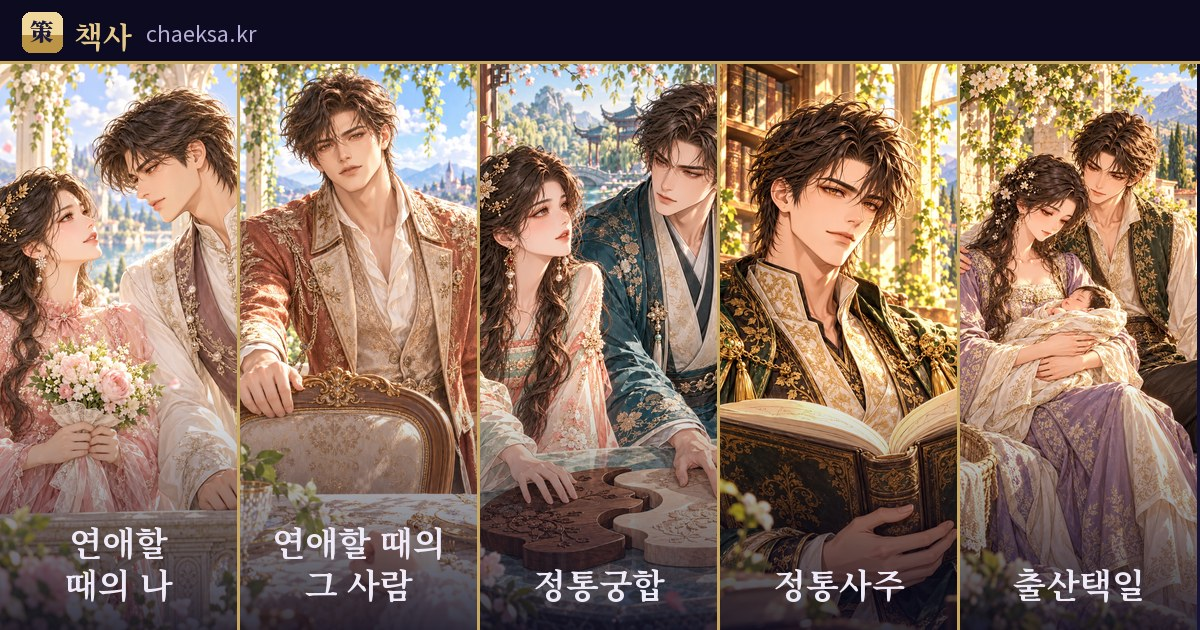
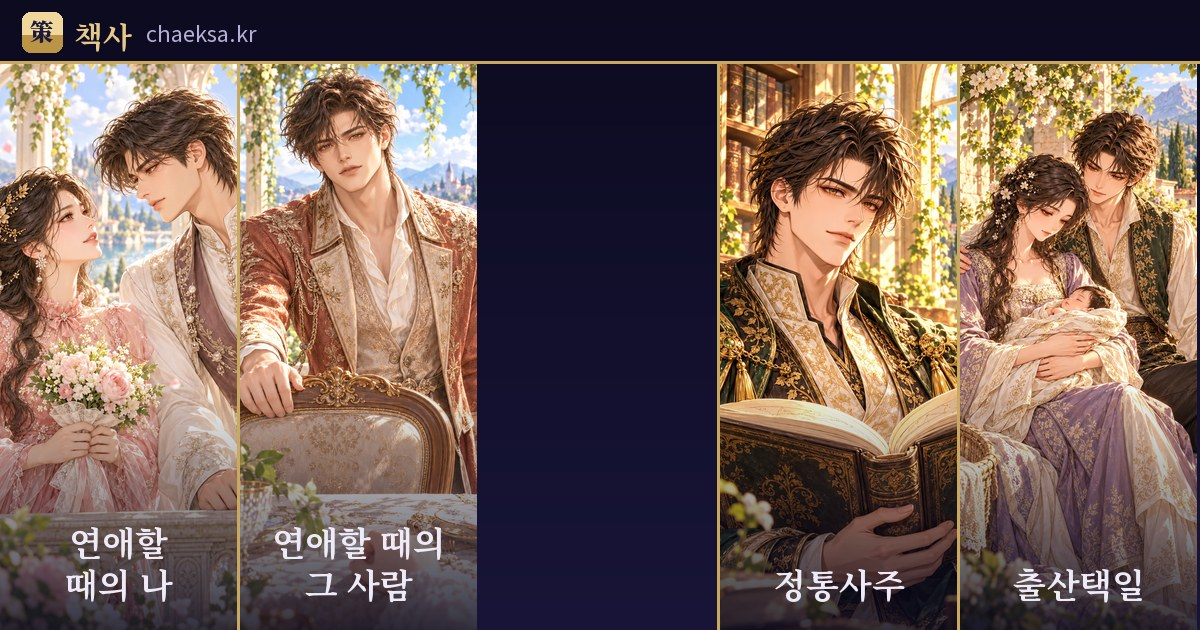
v1597 COPY-0033 합침(PR #42) · 정통 사주 궁합 홈 「궁합」 칸 맨 앞 · 장부 ghpyo · 검색 엶
정한 것: 결정함 114 — 궁합총론 자리를 정통 사주 궁합으로(궁합총론 탭은 ?go=chongnon 으로 남김) · 홈한줄은 Codex 위표시 문구

Changed region(s): [[0.37, 0.0905, 0.6167, 1.0], [0.5858, 0.9952, 0.6167, 1.0]]

diff --git a/app/tests_yaksok.html b/app/tests_yaksok.html
@@ -4,10 +4,10 @@
 <body><div id="out">시험하는 중이에요…</div><div id="stage" hidden></div>
 <script src="config.js?v=71396c29ad"></script>
 <script src="bunya.js?v=3445e8960e"></script>
-<script src="yaksok.js?v=8c978fd37f"></script>
+<script src="yaksok.js?v=72e3a2b6e3"></script>
 <script src="love.js?v=a7aaea452b"></script>
 <script src="pair.js?v=53d0140cab"></script>
-<script src="home-cats.js?v=aeddff5844"></script>
+<script src="home-cats.js?v=2cdcaf31b1"></script>
 <script src="people.js?v=608bb7b89c"></script>
 <script>
 // 상품 약속 장부 시험(10-02 개편 2묶음 「상품 약속 장부 한 줄씩 만들고, 모든 화면이 거기서 읽게 하기」).
@@ -42,14 +42,14 @@
   const 아는조건 = ['장한줄'];
   // 손으로 쓴 곳 — 장부를 읽지 못하는 법 문서 · 정적 글과, 장부를 읽게 바꾼 화면 파일(남은 손글씨가 없는지)
   const 손글파일 = ['pay.html', 'terms.html', 'privacy.html', 'index.html', 'manifest.json', 'llms.txt', 'taekil.html', 'taekil-apply.html', 'taekil-sample.html', 'pay-done.html', 'pay-fail.html', 'love.html', 'pair.html', 'ssom.html', 'gunghap-chongnon.html', 'jeongtong.html',
-    'love.js?v=a7aaea452b', 'pair.js?v=53d0140cab', 'home-cats.js?v=aeddff5844', 'app.js?v=c5498b0ca2', 'pay.js?v=536b36d2a9', 'gunghap-gwanjeom.js?v=e449964641', 'bunya.js?v=3445e8960e', 'about.html',
+    'love.js?v=a7aaea452b', 'pair.js?v=53d0140cab', 'home-cats.js?v=2cdcaf31b1', 'app.js?v=c5498b0ca2', 'pay.js?v=536b36d2a9', 'gunghap-gwanjeom.js?v=e449964641', 'bunya.js?v=3445e8960e', 'about.html',
     // 10-02 「켜는 날」 — 바깥 신청 폼 · 「사람이 직접」 · 「작업 전 전액 환불」 같은 걷은 약속이 출산택일 쪽에 다시 들어오지 않게(tools_check.py 7) 은 월별 · 궁통보감 쪽까지 taekil-*.html 전부를 본다)
     'taekil-price.html', 'taekil-sim.html', 'taekil-report.html', 'taekil-admin.html', 'taekil-why-different.html', 'taekil-cesarean-date.html', 'taekil-how-to-choose.html',
     'taekil-verify.html', 'taekil-fate-vs-timing.html', 'taekil-doctor-schedule.html', 'taekil-solar-time.html', 'taekil-lunar-december.html',
     'taekilsim.js?v=fbda3c54dc', 'taekil-admin.js?v=edcde7cc1e', 'taekil-report.js?v=59bef60b95'];
   // about.html(10-02 개편 3묶음 책사 소개) — 상품 말은 장부에서 읽는다. 손으로 쓴 숫자가 끼면 여기서 잡는다(tools_check.py 7)과 같은 목록)
-  const 시간파일 = ['pay.html', 'terms.html', 'love.js?v=a7aaea452b', 'pair.js?v=53d0140cab', 'index.html', 'pay-done.html', 'pay-fail.html', 'home-cats.js?v=aeddff5844', 'about.html'];
-  const 질문파일 = ['pay.html', 'terms.html', 'privacy.html', 'love.js?v=a7aaea452b', 'pair.js?v=53d0140cab', 'index.html', 'llms.txt', 'gunghap-gwanjeom.js?v=e449964641', 'home-cats.js?v=aeddff5844', 'about.html'];
+  const 시간파일 = ['pay.html', 'terms.html', 'love.js?v=a7aaea452b', 'pair.js?v=53d0140cab', 'index.html', 'pay-done.html', 'pay-fail.html', 'home-cats.js?v=2cdcaf31b1', 'about.html'];
+  const 질문파일 = ['pay.html', 'terms.html', 'privacy.html', 'love.js?v=a7aaea452b', 'pair.js?v=53d0140cab', 'index.html', 'llms.txt', 'gunghap-gwanjeom.js?v=e449964641', 'home-cats.js?v=2cdcaf31b1', 'about.html'];
   const 해파일 = ['pay.html', 'terms.html', 'privacy.html', 'love.js?v=a7aaea452b', 'pair.js?v=53d0140cab', 'about.html'];
   // 10-02 개편 3묶음 — 상품 소개 쪽 다섯(tools_sogae.py 가 장부 · 분야 표에서 만든다. tools_check.py SOGAE_PAGES 와 같은 목록). 시간 · 질문 수 · 보관 해도 장부와 같아야 한다.
   const 소개쪽 = { love: 'love.html', pair: 'pair.html', chongnon: 'gunghap-chongnon.html', ssom: 'ssom.html', jeongtong: 'jeongtong.html' };
@@ -60,7 +60,7 @@
     머리('가. 장부 꼴');
     봄('가1 전역 ChaeksaYaksok 이 있다', !!(Y && T && T.콘텐츠), true);
     if (!Y) throw new Error('yaksok.js 가 실리지 않았다');
-    const 소스 = await 받기('yaksok.js?v=8c978fd37f');
+    const 소스 = await 받기('yaksok.js?v=72e3a2b6e3');
     const 시작 = '/*장부 시작*/', 끝 = '/*장부 끝*/';
     봄('가2 장부 시작 · 장부 끝 표시가 한 번씩', [String(소스).split(시작).length - 1, String(소스).split(끝).length - 1], [1, 1]);
     let 파싱 = null; try { 파싱 = JSON.parse(소스.slice(소스.indexOf(시작) + 시작.length, 소스.indexOf(끝))); } catch (e) { 파싱 = null; }

diff --git a/app/home-cats.js b/app/home-cats.js
@@ -16,7 +16,8 @@
     // 창 = 아래 줄 「궁합」 고르기 창(app.js 고르기창)에서 이름 아래 한 줄(10-10 작가 「궁합창」 — 창의 다른 두 줄처럼 무엇을 보는지 적은 꼴). 홈 칸은 장부 홈한줄(물음 꼴) 그대로.
     //   장부(yaksok.js)에 두지 않은 까닭 — pay.html · pay-done · pay-fail 이 장부를 싣는다. 결제 심사 동안 그 쪽 ?v= 가 바뀌지 않게 여기 둔다(심사 뒤 장부 칸으로 옮긴다).
     match: [{ 키: 'gyeolhon', 주소: 'gyeolhon.html', 창: '그 사람과 함께 살아도 되는지, 결혼식을 피해야 할 해까지', 그림: 'art/content-tarot-v2/gyeolhon-cover.webp', 작은: 'art/content-tarot-v2/gyeolhon-cover-s.webp', 크기: [1024, 1536], 그림위치: '50% 28%' },
-      { 키: 'chongnon', 탭: 'chongnon', 그림: 'art/content-tarot-v2/gunghap-cover.webp', 작은: 'art/content-tarot-v2/gunghap-cover-s.webp', 크기: [1024, 1536], 그림위치: '50% 28%' },
+      // 11-03 사장님 궁합 네 줄 「정통 사주 궁합」(필터식 · gunghap-pyo.html) — 궁합총론 자리를 바꾼다(결정함 114). 궁합총론 탭은 ?go=chongnon 으로 남는다
+      { 키: 'ghpyo', 주소: 'gunghap-pyo.html', 그림: 'art/content-tarot-v2/gunghap-cover.webp', 작은: 'art/content-tarot-v2/gunghap-cover-s.webp', 크기: [1024, 1536], 그림위치: '50% 28%' },
       { 키: 'ssom', 탭: 'ssom', 그림: 'art/content-tarot-v2/ssom-cover.webp', 작은: 'art/content-tarot-v2/ssom-cover-s.webp', 크기: [1024, 1536], 그림위치: '50% 28%' }],
     me: [// 10-12 「내 사람들」(saram.html, 작업판 36) — 사장님 「내 사람들 ㄱㄱ」. 그림은 비견 칸(나란히 선 사람들)
       { 키: 'saram', 주소: 'saram.html', 그림: 'art/content-tarot-v2/saram-cover.webp', 작은: 'art/content-tarot-v2/saram-cover-s.webp', 크기: [1024, 1536], 그림위치: '50% 28%' },
@@ -75,7 +76,7 @@
   // 11-01 구글 「책사」 — 앱 탭으로 여는 칸도 href 는 그 상품의 소개 쪽(구글은 href 가 있는 <a> 만 따라간다. ./?go= 는 홈 사본이라 소개 쪽 다섯이 어느 쪽에서도 이어지지 않았다).
   // 보통 클릭은 그대로 길달기()가 data-tab 으로 앱 탭을 연다 — 바뀌는 것은 새 탭으로 열 때와 구글이 보는 주소뿐. 소개 쪽은 넣어 둔 사람이 있으면 ./?go= 로 넘긴다. 표 = tools_sogae.py PRODUCTS.
   var 소개쪽 = { love: 'love.html', pair: 'pair.html', chongnon: 'gunghap-chongnon.html', ssom: 'ssom.html', jeongtong: 'jeongtong.html' };
-  var 그림판 = 'v1596';   // tools_bust.py --bump 가 서비스워커 판과 같이 올린다
+  var 그림판 = 'v1597';   // tools_bust.py --bump 가 서비스워커 판과 같이 올린다
   function 그림칸(b, c, i, 차례, g, Y) {
     // 그림은 그림만(10-23 사장님) — 그림 아래에 이름(.n) · 한줄(.s) · 딱지(.t: 무엇이 무료 · 얼마 — 값은 상품표에서 채운다). 분류 딱지는 안 그린다.
     var 이름 = c.표시명 || (Y && Y.이름(c.키)) || b.이름, 한줄 = c.설명 || (Y && Y.홈한줄 ? Y.홈한줄(c.키) : ''), 딱지 = Y ? Y.딱지html(c.키) : '';
@@ -145,7 +146,7 @@
     var 묶음들 = [
       ['나를 알아보기', ['jeongtong', 'myeongban', 'tarot', 'three', 'today', 'why', 'when']],
       ['아기 태어날 날과 시간', ['taekil']],
-      ['연애와 궁합', ['chongnon', 'ssom', 'gyeolhon', 'love', 'pair', 'saram']],
+      ['연애와 궁합', ['ghpyo', 'ssom', 'gyeolhon', 'love', 'pair', 'saram']],
       ['일과 돈', ['ilgyeol']],
       ['읽을거리', ['read']]
     ];

diff --git a/app/gunghap-chongnon.html b/app/gunghap-chongnon.html
@@ -26,7 +26,7 @@ document.documentElement.setAttribute('data-theme','day');
 <link rel="preconnect" href="https://fonts.googleapis.com">
 <link rel="preconnect" href="https://fonts.gstatic.com" crossorigin>
 <link href="https://fonts.googleapis.com/css2?family=Noto+Serif+KR:wght@400;700;900&family=Noto+Sans+KR:wght@400;500;700&family=Gowun+Batang:wght@400;700&display=swap" rel="stylesheet">
-<link rel="stylesheet" href="style.css?v=1596">
+<link rel="stylesheet" href="style.css?v=1597">
 <style>
   .doc{max-width:660px;margin:0 auto;padding:24px 18px 90px}
   .doc h1{font-family:var(--serif);font-size:var(--t6);line-height:1.35;margin:6px 0 8px;color:var(--ink)}
@@ -55,13 +55,12 @@ document.documentElement.setAttribute('data-theme','day');
     .sg-cover{display:block;width:62vw;max-width:260px;margin:0 auto 16px}
   }
 </style>
-<link rel="stylesheet" href="desktop-scenes.css?v=1596">
+<link rel="stylesheet" href="desktop-scenes.css?v=1597">
 </head>
 <body data-desktop-scene="garden" data-desktop-content="chongnon">
 <div class="mini-head" role="banner"><a class="logo" href="./" title="처음 화면으로"><i class="seal">策</i><span>책사</span></a><a class="mh-home" href="./">← 홈</a></div>
 <main class="doc sg" data-sogae="chongnon">
   <div class="sg-hero">
-  <img class="sg-cover" src="art/content-tarot-v2/gunghap-cover.webp" srcset="art/content-tarot-v2/gunghap-cover-s.webp 360w, art/content-tarot-v2/gunghap-cover.webp 1024w" sizes="(min-width:600px) 240px, 62vw" width="1024" height="1536" alt="" decoding="async">
   <div class="sg-head">
     <p class="sg-tag">무료</p>
     <h1>정통궁합</h1>
@@ -103,8 +102,8 @@ document.documentElement.setAttribute('data-theme','day');
   유코아 팔달 · 대표 이승용 · 사업자등록번호 745-68-00160 · 통신판매업 제2026-대구북구-0909호<br>
   대구 북구 매천로 2길19 상가 126동 1층 111호 · 010-9999-1263 · dl4431@naver.com</p>
 </main>
-<script src="config.js?v=1596"></script>
-<script src="track.js?v=1596"></script>
+<script src="config.js?v=1597"></script>
+<script src="track.js?v=1597"></script>
 <script>
 (function(){
   var f='';try{f=new URLSearchParams(location.search).get('from')||'';}catch(e){}

diff --git a/app/love.html b/app/love.html
@@ -26,7 +26,7 @@ document.documentElement.setAttribute('data-theme','day');
 <link rel="preconnect" href="https://fonts.googleapis.com">
 <link rel="preconnect" href="https://fonts.gstatic.com" crossorigin>
 <link href="https://fonts.googleapis.com/css2?family=Noto+Serif+KR:wght@400;700;900&family=Noto+Sans+KR:wght@400;500;700&family=Gowun+Batang:wght@400;700&display=swap" rel="stylesheet">
-<link rel="stylesheet" href="style.css?v=1596">
+<link rel="stylesheet" href="style.css?v=1597">
 <style>
   .doc{max-width:660px;margin:0 auto;padding:24px 18px 90px}
   .doc h1{font-family:var(--serif);font-size:var(--t6);line-height:1.35;margin:6px 0 8px;color:var(--ink)}
@@ -55,7 +55,7 @@ document.documentElement.setAttribute('data-theme','day');
     .sg-cover{display:block;width:62vw;max-width:260px;margin:0 auto 16px}
   }
 </style>
-<link rel="stylesheet" href="desktop-scenes.css?v=1596">
+<link rel="stylesheet" href="desktop-scenes.css?v=1597">
 </head>
 <body data-desktop-scene="garden" data-desktop-content="love">
 <div class="mini-head" role="banner"><a class="logo" href="./" title="처음 화면으로"><i class="seal">策</i><span>책사</span></a><a class="mh-home" href="./">← 홈</a></div>
@@ -118,10 +118,10 @@ document.documentElement.setAttribute('data-theme','day');
   유코아 팔달 · 대표 이승용 · 사업자등록번호 745-68-00160 · 통신판매업 제2026-대구북구-0909호<br>
   대구 북구 매천로 2길19 상가 126동 1층 111호 · 010-9999-1263 · dl4431@naver.com</p>
 </main>
-<script src="config.js?v=1596"></script>
-<script src="track.js?v=1596"></script>
-<script src="yaksok.js?v=1596"></script>
-<script src="pay.js?v=1596"></script>
+<script src="config.js?v=1597"></script>
+<script src="track.js?v=1597"></script>
+<script src="yaksok.js?v=1597"></script>
+<script src="pay.js?v=1597"></script>
 <script>
 (function(){
   var f='';try{f=new URLSearchParams(location.search).get('from')||'';}catch(e){}

diff --git a/app/pair.html b/app/pair.html
@@ -26,7 +26,7 @@ document.documentElement.setAttribute('data-theme','day');
 <link rel="preconnect" href="https://fonts.googleapis.com">
 <link rel="preconnect" href="https://fonts.gstatic.com" crossorigin>
 <link href="https://fonts.googleapis.com/css2?family=Noto+Serif+KR:wght@400;700;900&family=Noto+Sans+KR:wght@400;500;700&family=Gowun+Batang:wght@400;700&display=swap" rel="stylesheet">
-<link rel="stylesheet" href="style.css?v=1596">
+<link rel="stylesheet" href="style.css?v=1597">
 <style>
   .doc{max-width:660px;margin:0 auto;padding:24px 18px 90px}
   .doc h1{font-family:var(--serif);font-size:var(--t6);line-height:1.35;margin:6px 0 8px;color:var(--ink)}
@@ -55,7 +55,7 @@ document.documentElement.setAttribute('data-theme','day');
     .sg-cover{display:block;width:62vw;max-width:260px;margin:0 auto 16px}
   }
 </style>
-<link rel="stylesheet" href="desktop-scenes.css?v=1596">
+<link rel="stylesheet" href="desktop-scenes.css?v=1597">
 </head>
 <body data-desktop-scene="garden" data-desktop-content="pair">
 <div class="mini-head" role="banner"><a class="logo" href="./" title="처음 화면으로"><i class="seal">策</i><span>책사</span></a><a class="mh-home" href="./">← 홈</a></div>
@@ -100,10 +100,10 @@ document.documentElement.setAttribute('data-theme','day');
   유코아 팔달 · 대표 이승용 · 사업자등록번호 745-68-00160 · 통신판매업 제2026-대구북구-0909호<br>
   대구 북구 매천로 2길19 상가 126동 1층 111호 · 010-9999-1263 · dl4431@naver.com</p>
 </main>
-<script src="config.js?v=1596"></script>
-<script src="track.js?v=1596"></script>
-<script src="yaksok.js?v=1596"></script>
-<script src="pay.js?v=1596"></script>
+<script src="config.js?v=1597"></script>
+<script src="track.js?v=1597"></script>
+<script src="yaksok.js?v=1597"></script>
+<script src="pay.js?v=1597"></script>
 <script>
 (function(){
   var f='';try{f=new URLSearchParams(location.search).get('from')||'';}catch(e){}

diff --git a/app/jeongtong.html b/app/jeongtong.html
@@ -26,7 +26,7 @@ document.documentElement.setAttribute('data-theme','day');
 <link rel="preconnect" href="https://fonts.googleapis.com">
 <link rel="preconnect" href="https://fonts.gstatic.com" crossorigin>
 <link href="https://fonts.googleapis.com/css2?family=Noto+Serif+KR:wght@400;700;900&family=Noto+Sans+KR:wght@400;500;700&family=Gowun+Batang:wght@400;700&display=swap" rel="stylesheet">
-<link rel="stylesheet" href="style.css?v=1596">
+<link rel="stylesheet" href="style.css?v=1597">
 <style>
   .doc{max-width:660px;margin:0 auto;padding:24px 18px 90px}
   .doc h1{font-family:var(--serif);font-size:var(--t6);line-height:1.35;margin:6px 0 8px;color:var(--ink)}
@@ -55,7 +55,7 @@ document.documentElement.setAttribute('data-theme','day');
     .sg-cover{display:block;width:62vw;max-width:260px;margin:0 auto 16px}
   }
 </style>
-<link rel="stylesheet" href="desktop-scenes.css?v=1596">
+<link rel="stylesheet" href="desktop-scenes.css?v=1597">
 </head>
 <body data-desktop-scene="library" data-desktop-content="jeongtong">
 <div class="mini-head" role="banner"><a class="logo" href="./" title="처음 화면으로"><i class="seal">策</i><span>책사</span></a><a class="mh-home" href="./">← 홈</a></div>
@@ -97,8 +97,8 @@ document.documentElement.setAttribute('data-theme','day');
   유코아 팔달 · 대표 이승용 · 사업자등록번호 745-68-00160 · 통신판매업 제2026-대구북구-0909호<br>
   대구 북구 매천로 2길19 상가 126동 1층 111호 · 010-9999-1263 · dl4431@naver.com</p>
 </main>
-<script src="config.js?v=1596"></script>
-<script src="track.js?v=1596"></script>
+<script src="config.js?v=1597"></script>
+<script src="track.js?v=1597"></script>
 <script>
 (function(){
   var f='';try{f=new URLSearchParams(location.search).get('from')||'';}catch(e){}

diff --git a/app/ssom.html b/app/ssom.html
@@ -26,7 +26,7 @@ document.documentElement.setAttribute('data-theme','day');
 <link rel="preconnect" href="https://fonts.googleapis.com">
 <link rel="preconnect" href="https://fonts.gstatic.com" crossorigin>
 <link href="https://fonts.googleapis.com/css2?family=Noto+Serif+KR:wght@400;700;900&family=Noto+Sans+KR:wght@400;500;700&family=Gowun+Batang:wght@400;700&display=swap" rel="stylesheet">
-<link rel="stylesheet" href="style.css?v=1596">
+<link rel="stylesheet" href="style.css?v=1597">
 <style>
   .doc{max-width:660px;margin:0 auto;padding:24px 18px 90px}
   .doc h1{font-family:var(--serif);font-size:var(--t6);line-height:1.35;margin:6px 0 8px;color:var(--ink)}
@@ -55,7 +55,7 @@ document.documentElement.setAttribute('data-theme','day');
     .sg-cover{display:block;width:62vw;max-width:260px;margin:0 auto 16px}
   }
 </style>
-<link rel="stylesheet" href="desktop-scenes.css?v=1596">
+<link rel="stylesheet" href="desktop-scenes.css?v=1597">
 </head>
 <body data-desktop-scene="garden" data-desktop-content="ssom">
 <div class="mini-head" role="banner"><a class="logo" href="./" title="처음 화면으로"><i class="seal">策</i><span>책사</span></a><a class="mh-home" href="./">← 홈</a></div>
@@ -98,8 +98,8 @@ document.documentElement.setAttribute('data-theme','day');
   유코아 팔달 · 대표 이승용 · 사업자등록번호 745-68-00160 · 통신판매업 제2026-대구북구-0909호<br>
   대구 북구 매천로 2길19 상가 126동 1층 111호 · 010-9999-1263 · dl4431@naver.com</p>
 </main>
-<script src="config.js?v=1596"></script>
-<script src="track.js?v=1596"></script>
+<script src="config.js?v=1597"></script>
+<script src="track.js?v=1597"></script>
 <script>
 (function(){
   var f='';try{f=new URLSearchParams(location.search).get('from')||'';}catch(e){}

diff --git a/app/yaksok.js b/app/yaksok.js
@@ -55,6 +55,7 @@
 "why": {"코드":null,"탭":"why","이름":"왜 내게만 이런 일이 일어날까?","딱지":"무료","필요":"내 생년월일시","홈한줄":"내 운세에 반복되는 일과 다음 날짜"},
 "three": {"코드":null,"탭":"three","이름":"SSS급 미래 관측","딱지":"무료","필요":"내 생년월일시","홈한줄":"정통 사주·자미두수·타로를 한 번에 본다고?","정통끝말":"궁금한 일을 세 가지 관점으로 나란히 살펴보세요."},
 "tarot": {"코드":null,"탭":"tarot","이름":"정통타로","딱지":"무료","필요":"내 생년월일시","홈한줄":"열 장의 카드로 보는 이번 달의 답","입력단추":"내 정통타로 보기"},
+"ghpyo": {"코드":null,"탭":"gunghap-pyo.html","이름":"정통 사주 궁합","홈한줄":"두 사람의 사주를 함께 읽다","딱지":"무료","필요":"두 사람 생년월일시","자리":"gunghap-pyo.html"},
 "when": {"코드":null,"탭":"when.html","이름":"내 운은 언제 풀릴까?","홈한줄":"힘든 해와 나아지는 해, 앞으로 10년의 흐름","딱지":"무료","필요":"내 생년월일시","자리":"when.html"},
 "brain": {"코드":null,"탭":"brain.html","이름":"옛 책이 본 내 머리","홈한줄":"고전에서 총명함과 배움의 힘을 말한 조건","딱지":"무료","필요":"내 생년월일시","자리":"brain.html"},
 "saram": {"코드":null,"탭":"saram.html","이름":"나와 잘 맞는 사람","홈한줄":"저장한 사람들과 서로 바라는 것을 주고받는지","딱지":"무료","필요":"내 생년월일 + 다른 사람 생년월일","자리":"saram.html"},

diff --git a/app/gunghap-pyo.html b/app/gunghap-pyo.html
@@ -4,9 +4,17 @@
 <meta charset="utf-8">
 <meta name="viewport" content="width=device-width, initial-scale=1, viewport-fit=cover">
 <title>정통 사주 궁합 · 책사</title>
-<meta name="robots" content="noindex,nofollow">
+<meta name="description" content="서로 바라던 사람인지, 옛 책은 어떤 짝으로 보았는지. 두 사람의 사주를 열한 조건으로 읽습니다.">
+<meta name="robots" content="index,follow,max-snippet:-1">
+<link rel="canonical" href="https://chaeksa.kr/gunghap-pyo.html">
+<meta property="og:title" content="정통 사주 궁합">
+<meta property="og:description" content="서로 바라던 사람인지, 옛 책은 어떤 짝으로 보았는지. 두 사람의 사주를 열한 조건으로 읽습니다.">
+<meta property="og:type" content="website">
+<meta property="og:site_name" content="책사">
+<meta property="og:url" content="https://chaeksa.kr/gunghap-pyo.html">
+<meta property="og:image" content="https://chaeksa.kr/og.jpg">
 <!-- 11-03 사장님 궁합 네 줄 「정통 사주 궁합」 + 「기존처럼 필터식으로 갈거야」 — 뼈대. 계산은 비공개 /api/gh-pyo, 글은 gunghap-pyo-copy.js(Codex COPY-0033).
-     글이 다 차기 전에는 홈 · 메뉴에 걸지 않고 검색에도 안 올린다. -->
+     11-03 COPY-0033(PR #42) 글이 차서 홈 「궁합」 칸 맨 앞에 걸고 검색에 올렸다. -->
 <script>document.documentElement.setAttribute('data-theme','day');</script>
 <link rel="preconnect" href="https://fonts.googleapis.com">
 <link rel="preconnect" href="https://fonts.gstatic.com" crossorigin>

diff --git a/app/tests_taekilreport.html b/app/tests_taekilreport.html
@@ -14,7 +14,7 @@
 <script src="places.js?v=1350b96148"></script><script src="astro.js?v=c0bb3fa175"></script><script src="lunar.js?v=9d5b6391f1"></script><script src="engine.js?v=e0bd1ab409"></script>
 <script src="saenggeuk.js?v=df8648d564"></script><script src="gise.js?v=d0f879078e"></script><script src="panjeong.js?v=389d38ced7"></script><script src="gyeokguk.js?v=63f811f535"></script>
 <script src="classic.js?v=f45b014bad"></script><script src="gwanjeom.js?v=20964aa88a"></script><script src="taekilsim.js?v=fbda3c54dc"></script>
-<script src="taekil-read.js?v=665291947e"></script><script src="yaksok.js?v=8c978fd37f"></script><script src="pay.js?v=536b36d2a9"></script>
+<script src="taekil-read.js?v=665291947e"></script><script src="yaksok.js?v=72e3a2b6e3"></script><script src="pay.js?v=536b36d2a9"></script>
 <script src="myeongsik-card.js?v=975bd33438"></script><script src="taekil-report.js?v=59bef60b95"></script>
 <script id="tests">
 (function () {

diff --git a/app/sw.js b/app/sw.js
@@ -9,7 +9,7 @@
  *  그 밖(지문 없는 파일 · 숫자 ?v=) — 네트워크 먼저, 끊겼을 때만 캐시.
  *  캐시에는 제대로 받은 것(r.ok)만 넣는다 — 404 · 오류 쪽이 캐시에 남아 다음에 그것을 보이는 일이 없게.
  */
-const CACHE = 'chaeksa-v1596';          // tools_bust.py --bump 가 올린다 — 이 파일이 바뀌어야 브라우저가 새 일꾼을 받는다
+const CACHE = 'chaeksa-v1597';          // tools_bust.py --bump 가 올린다 — 이 파일이 바뀌어야 브라우저가 새 일꾼을 받는다
 const FILES_CACHE = 'chaeksa-files';    // ① 지문 붙은 파일 — 배포마다 지우지 않는다
 const IMG_CACHE = 'chaeksa-img';        // ② 그림
 const IMG_MAX = 400;

diff --git a/app/index.html b/app/index.html
@@ -792,12 +792,12 @@
 <script src="sipseong-byeonhwa.js?v=eb243cca3a"></script>
 <script src="byeonhwa-jogak.js?v=ade331ebee"></script>
 <script src="byeonhwa.js?v=5008ee2370"></script>
-<script src="yaksok.js?v=8c978fd37f"></script>
+<script src="yaksok.js?v=72e3a2b6e3"></script>
 <script src="to-three.js?v=d50f13243e"></script>
 <script src="to-paid.js?v=48400a08d8"></script>
 <script src="oryu.js?v=dd6fb278b2"></script>
 <script src="bunya.js?v=3445e8960e"></script>
-<script src="home-cats.js?v=aeddff5844"></script>
+<script src="home-cats.js?v=2cdcaf31b1"></script>
 <script src="home-ask.js?v=6ebbc20453"></script>
 <script src="chaeksadan.js?v=bda9866c97"></script>
 <script src="share.js?v=4b8ab83494"></script>
